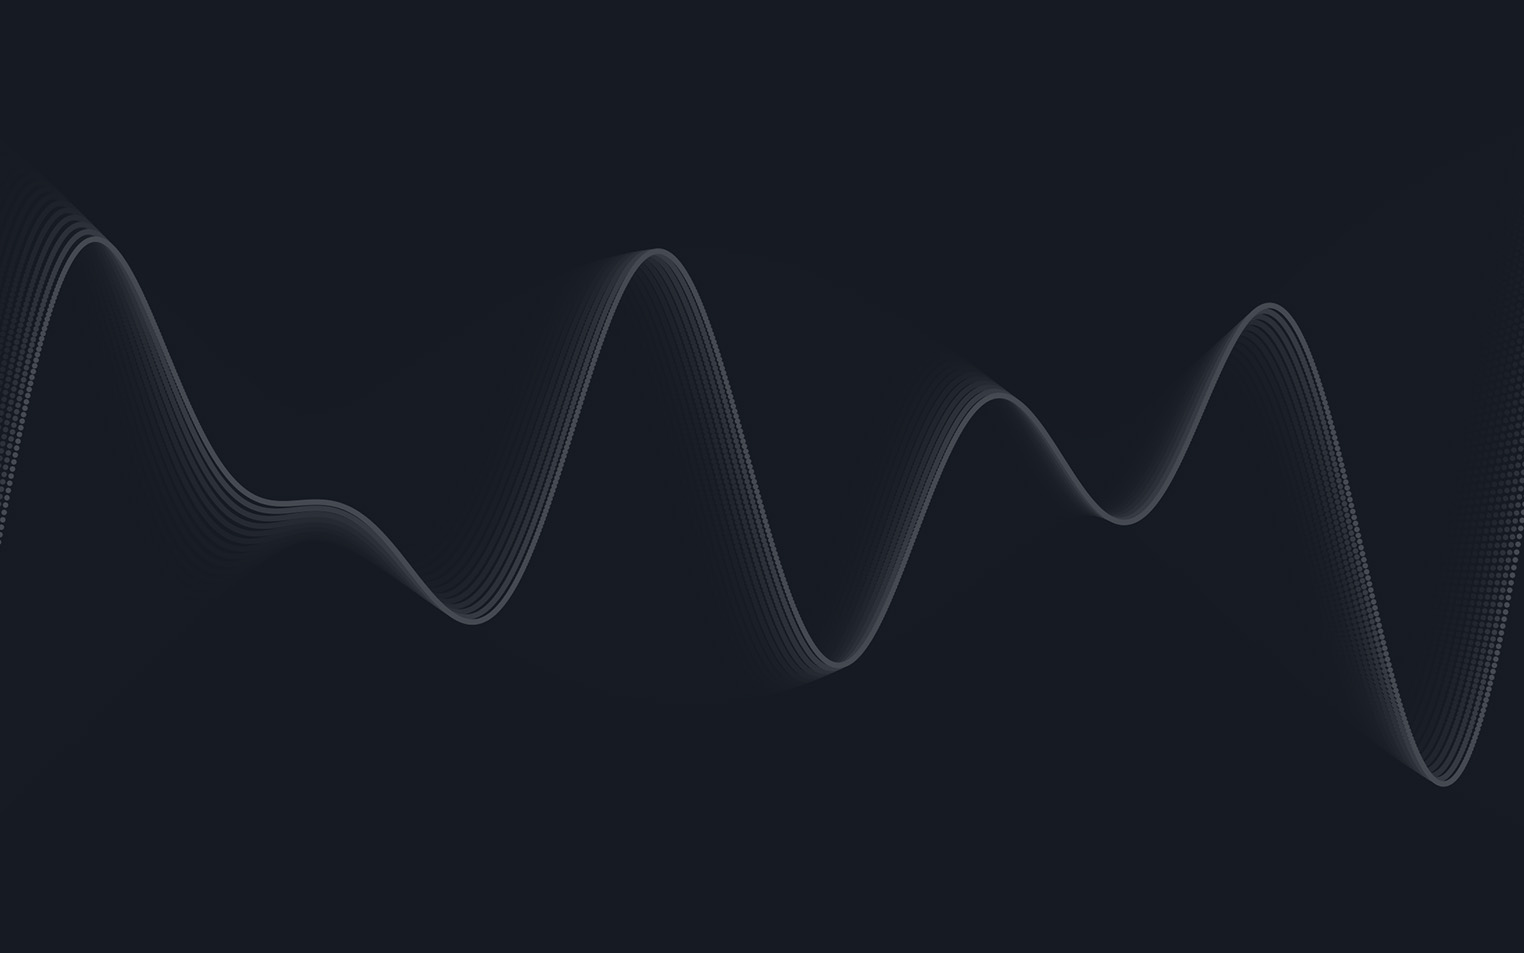
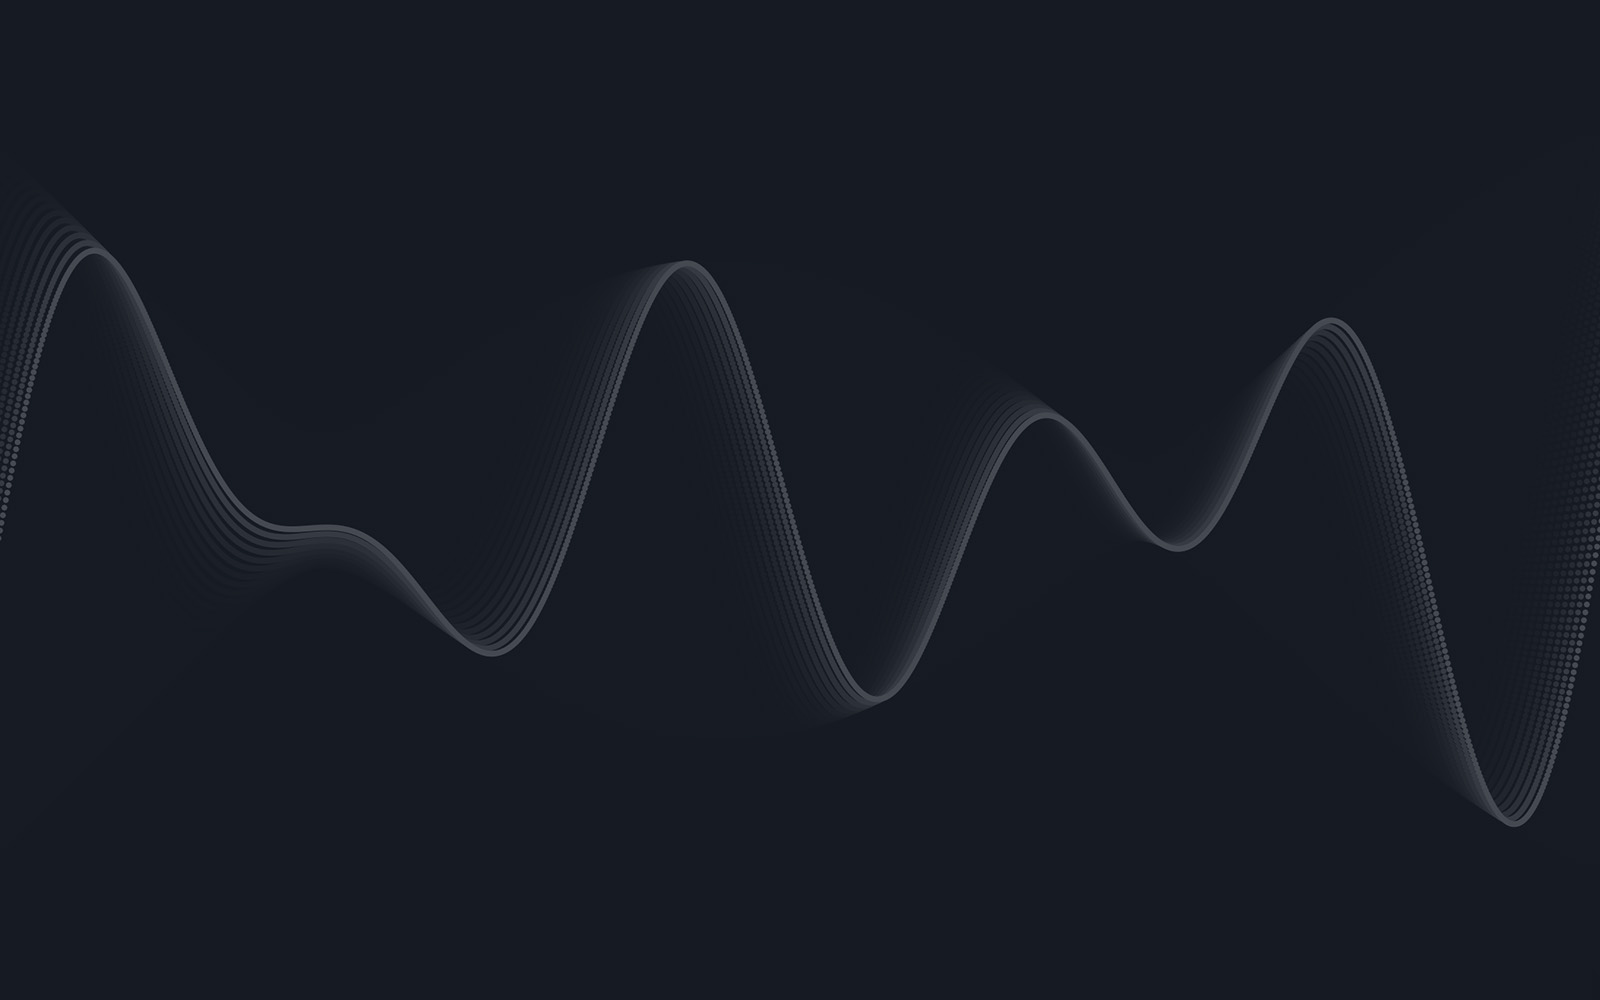
tweaks

diff --git a/_scss/component/section.scss b/_scss/component/section.scss
@@ -60,5 +60,7 @@
 // Animation for wave background
 @keyframes animateBG {
   0% { background-position: -1500px center; }
+  30% { background-position: -400px center; }
+  60% { background-position: 700px center; }
   100% { background-position: 1500px center; }
 }

diff --git a/_scss/component/modal.scss b/_scss/component/modal.scss
@@ -112,7 +112,7 @@ $menuHeight_sm: 6rem;
 		@include tabletAndUp() {
 			margin: 0;
 			width: auto !important;
-			max-height: auto;
+			max-height: 100vh;
 		}
 	}
 
